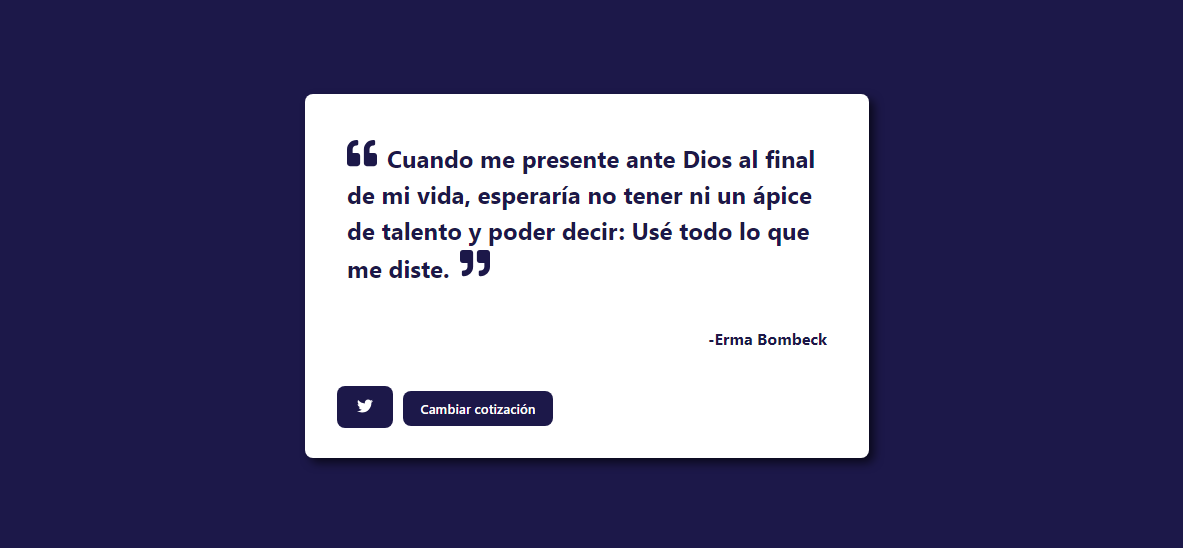
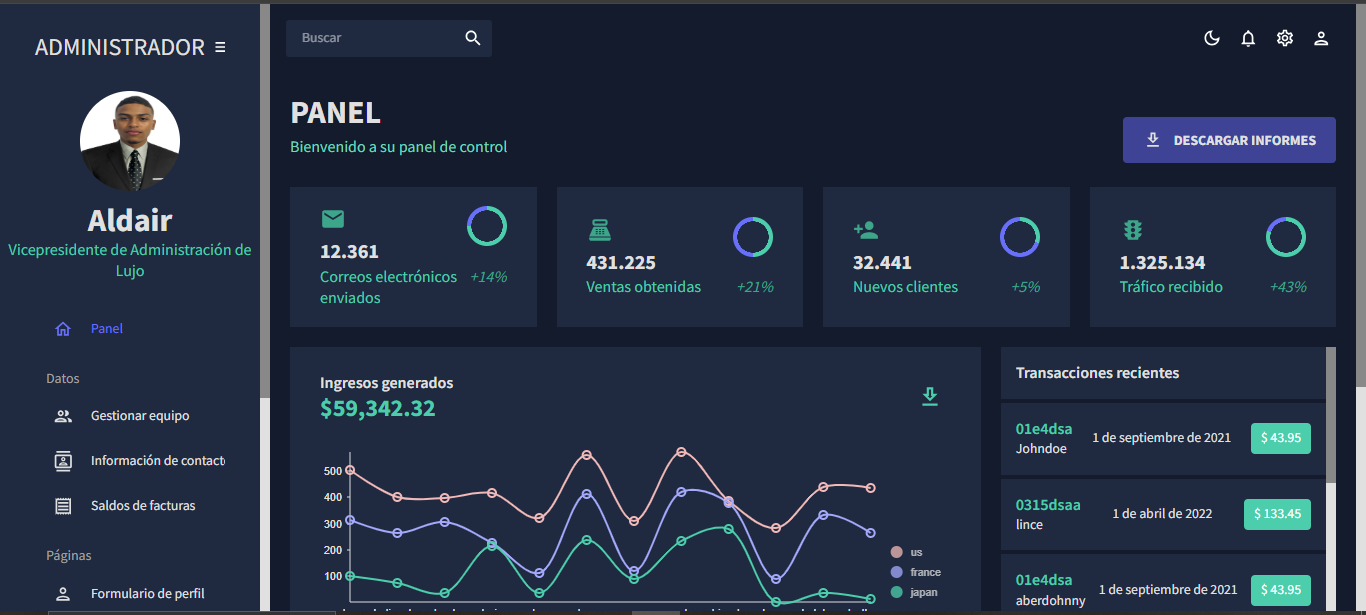
se agrega un nuevo proyecto

diff --git a/src/Component/Proyectos.jsx b/src/Component/Proyectos.jsx
@@ -27,27 +27,27 @@ export default function Proyectos () {
     return(
       <section id="proyectos" className="proyectos-recientes seccion-clara d-flex flex-column">
         <h2 className="seccion-titulo texto-negro">Mis proyectos</h2>
-        <h3 className="seccion-descripcion">Estos son algunos proyectos que he creado recientemente...</h3> 
-        <div className="container text-center proyectos-contenedor">  
-        <div className="row">
+          <h3 className="seccion-descripcion">Estos son algunos proyectos que he creado recientemente...</h3> 
+            <div className="container text-center proyectos-contenedor">  
+                <div className="row">
         
-         {/* primer proyecto */}
-         <Proyect UrlImg={imagenes.Proyect3} alt='proyecto 3' nameProyect='CV' DireccionProyectRepo='https://github.com/AldairZambrano/CV' DireccionProyectweb='https://aldairzambrano.github.io/CV/'></Proyect>
-        <Proyect  UrlImg={imagenes.Proyect5} alt='proyecto 5' nameProyect='Portafolio' DireccionProyectRepo='https://github.com/AldairZambrano/PortafolioReact.js' DireccionProyectweb='https://portafolio-ajzp.netlify.app/'></Proyect>
-               <Proyect UrlImg={imagenes.calculadoraMezcla} alt='proyecto 2' nameProyect='Control de Cajas e Insumos' DireccionProyectRepo='https://github.com/AldairZambrano/Calculador_de_mezclas' DireccionProyectweb='https://calculadormezclas.netlify.app/'></Proyect>
-        <Proyect  UrlImg={imagenes.TIC} alt='proyecto 11' nameProyect='Tic tac toe' DireccionProyectRepo='https://github.com/AldairZambrano/tic-tac-toe' DireccionProyectweb='https://tic-tac-toei.netlify.app/'></Proyect>
-        <Proyect  UrlImg={imagenes.Camara} alt='proyecto 10' nameProyect='Camara' DireccionProyectRepo='https://github.com/AldairZambrano/Camara' DireccionProyectweb='https://zippy-twilight-99a722.netlify.app/'></Proyect>
-        <Proyect  UrlImg={imagenes.random} alt='proyecto 33' nameProyect='Random Quote Machine' DireccionProyectRepo='https://github.com/AldairZambrano/Random-' DireccionProyectweb='https://random-alda.netlify.app/'></Proyect>
-        <Proyect UrlImg={imagenes.tienda} alt='proyecto 7' nameProyect='Tienda fast food' DireccionProyectRepo='https://github.com/AldairZambrano/Tienda' DireccionProyectweb='https://tienda-fast-foot.netlify.app/'></Proyect>
-        <Proyect  UrlImg={imagenes.tiendaderopa} alt='proyecto 8' nameProyect='Tienda de Ropa' DireccionProyectRepo='https://github.com/AldairZambrano/tiendaderopa' DireccionProyectweb='https://aldairzambrano.github.io/tiendaderopa/'></Proyect>
-        <Proyect UrlImg={imagenes.admiImv} alt='proyecto 9' nameProyect='admi-imv' DireccionProyectRepo='https://github.com/AldairZambrano/admi-imv' DireccionProyectweb='https://admi-imv.netlify.app/'></Proyect>
-        <Proyect UrlImg={imagenes.markdown2} alt='proyecto 12' nameProyect='Markdown' DireccionProyectRepo='https://github.com/AldairZambrano/Markdown-previewer' DireccionProyectweb='https://markdown-aldair.netlify.app/'></Proyect>
-        <Proyect UrlImg={imagenes.caja} alt='proyecto 1' nameProyect='Caja de ritmo' DireccionProyectRepo='https://github.com/AldairZambrano/Drum-Machine' DireccionProyectweb='https://caja-ritmos.netlify.app/'></Proyect>
-        <Proyect UrlImg={imagenes.alarma}alt='proyecto 4' nameProyect='alarma' DireccionProyectRepo='https://github.com/AldairZambrano/Build' DireccionProyectweb='https://alarma-ru.netlify.app/'></Proyect>
-        </div>
-      </div>
-      <a href="https://github.com/AldairZambrano" target="_blank" rel="noopener noreferrer">
-        <button type="button" className="btn btn-info">
+                    {/* primer proyecto */}
+                    <Proyect UrlImg={imagenes.Proyect3} alt='proyecto 3' nameProyect='CV' DireccionProyectRepo='https://github.com/AldairZambrano/CV' DireccionProyectweb='https://aldairzambrano.github.io/CV/'></Proyect>
+                    <Proyect  UrlImg={imagenes.Proyect5} alt='proyecto 5' nameProyect='Portafolio' DireccionProyectRepo='https://github.com/AldairZambrano/PortafolioReact.js' DireccionProyectweb='https://portafolio-ajzp.netlify.app/'></Proyect>
+                    <Proyect UrlImg={imagenes.calculadoraMezcla} alt='proyecto 2' nameProyect='Control de Cajas e Insumos' DireccionProyectRepo='https://github.com/AldairZambrano/Calculador_de_mezclas' DireccionProyectweb='https://calculadormezclas.netlify.app/'></Proyect>
+                    <Proyect  UrlImg={imagenes.TIC} alt='proyecto 11' nameProyect='Tic tac toe' DireccionProyectRepo='https://github.com/AldairZambrano/tic-tac-toe' DireccionProyectweb='https://tic-tac-toei.netlify.app/'></Proyect>
+                    <Proyect  UrlImg={imagenes.random} alt='proyecto 33' nameProyect='Dashboard' DireccionProyectRepo='https://github.com/AldairZambrano/Deshboard' DireccionProyectweb='https://dashboard-primary.netlify.app/'></Proyect>
+                      <Proyect  UrlImg={imagenes.Camara} alt='proyecto 10' nameProyect='Camara' DireccionProyectRepo='https://github.com/AldairZambrano/Camara' DireccionProyectweb='https://zippy-twilight-99a722.netlify.app/'></Proyect>
+                    <Proyect UrlImg={imagenes.tienda} alt='proyecto 7' nameProyect='Tienda fast food' DireccionProyectRepo='https://github.com/AldairZambrano/Tienda' DireccionProyectweb='https://tienda-fast-foot.netlify.app/'></Proyect>
+                    <Proyect  UrlImg={imagenes.tiendaderopa} alt='proyecto 8' nameProyect='Tienda de Ropa' DireccionProyectRepo='https://github.com/AldairZambrano/tiendaderopa' DireccionProyectweb='https://aldairzambrano.github.io/tiendaderopa/'></Proyect>
+                    <Proyect UrlImg={imagenes.admiImv} alt='proyecto 9' nameProyect='admi-imv' DireccionProyectRepo='https://github.com/AldairZambrano/admi-imv' DireccionProyectweb='https://admi-imv.netlify.app/'></Proyect>
+                    <Proyect UrlImg={imagenes.markdown2} alt='proyecto 12' nameProyect='Markdown' DireccionProyectRepo='https://github.com/AldairZambrano/Markdown-previewer' DireccionProyectweb='https://markdown-aldair.netlify.app/'></Proyect>
+                    <Proyect UrlImg={imagenes.caja} alt='proyecto 1' nameProyect='Caja de ritmo' DireccionProyectRepo='https://github.com/AldairZambrano/Drum-Machine' DireccionProyectweb='https://caja-ritmos.netlify.app/'></Proyect>
+                    <Proyect UrlImg={imagenes.alarma}alt='proyecto 4' nameProyect='alarma' DireccionProyectRepo='https://github.com/AldairZambrano/Build' DireccionProyectweb='https://alarma-ru.netlify.app/'></Proyect>
+                    </div>
+                </div>
+              <a href="https://github.com/AldairZambrano" target="_blank" rel="noopener noreferrer">
+          <button type="button" className="btn btn-info">
           Ver más proyectos
           <i className="bi bi-arrow-right-circle-fill"></i>
         </button>
